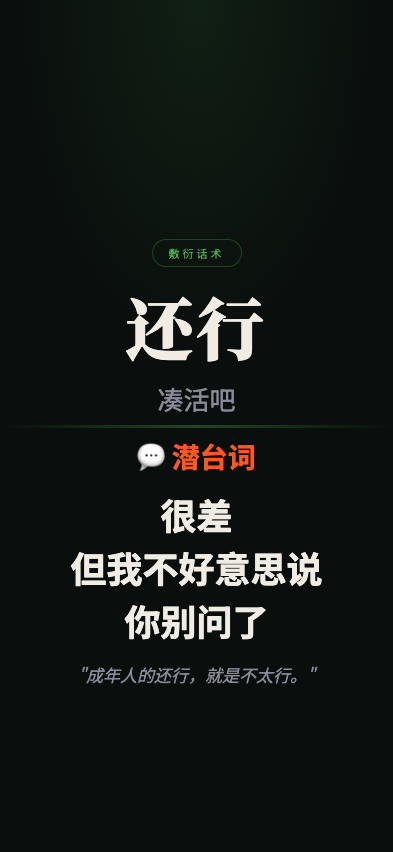
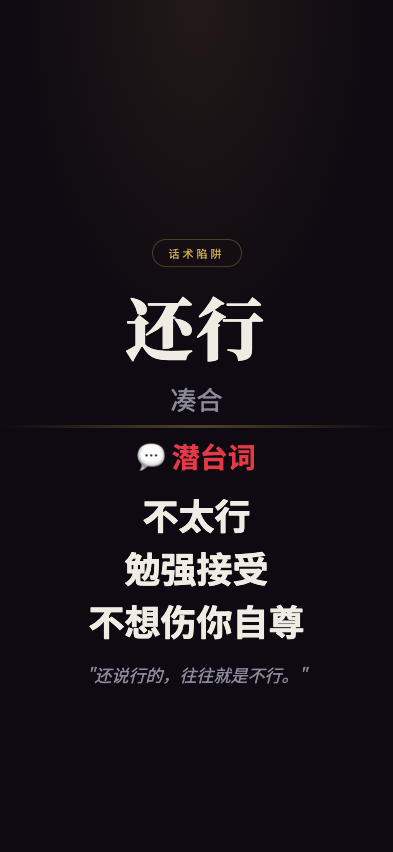
feat: 职场生存法则 screenshot - haixing

diff --git a/wuliao-tools/tools/biz-speak/scenes/haixing.html b/wuliao-tools/tools/biz-speak/scenes/haixing.html
@@ -7,11 +7,11 @@
 <link href="https://fonts.googleapis.com/css2?family=Noto+Serif+SC:wght@400;700;900&family=Noto+Sans+SC:wght@300;400;700&display=swap" rel="stylesheet">
 <style>
   :root {
-    --bg: #0a0f0d;
+    --bg: #0f0a12;
     --text: #f0ece4;
     --text-dim: #8a8a9a;
-    --gold: #4caf50;
-    --red: #ff5722;
+    --gold: #c9a84c;
+    --red: #e63946;
   }
   * { margin:0; padding:0; box-sizing:border-box; }
   html, body { width:100%; height:100%; overflow:hidden; }
@@ -24,11 +24,11 @@
   }
   body::before {
     content:''; position:absolute; top:0; left:0; right:0; height:45%;
-    background:radial-gradient(ellipse at 50% 0%, rgba(76,175,80,0.1) 0%, transparent 65%);
+    background:radial-gradient(ellipse at 50% 0%, rgba(201,168,76,0.1) 0%, transparent 65%);
     pointer-events:none; z-index:0;
   }
   .top { flex:1; display:flex; flex-direction:column; align-items:center; justify-content:flex-end; padding:4px 28px 8px; position:relative; z-index:1; }
-  .tag { font-size:11px; letter-spacing:3px; color:var(--gold); border:1px solid rgba(76,175,80,0.3); padding:5px 16px; border-radius:50px; margin-bottom:20px; }
+  .tag { font-size:11px; letter-spacing:3px; color:var(--gold); border:1px solid rgba(201,168,76,0.3); padding:5px 16px; border-radius:50px; margin-bottom:20px; }
   .main-title { font-family:'Noto Serif SC'; font-size:68px; font-weight:900; text-align:center; line-height:1.15; letter-spacing:3px; min-width:0; overflow-wrap:break-word; max-width:92%; }
   .sub-title { font-size:26px; color:var(--text-dim); text-align:center; margin-top:14px; }
   .divider { width:100%; height:3px; background:linear-gradient(90deg,transparent,var(--gold),transparent); opacity:0.35; flex-shrink:0; position:relative; z-index:1; }
@@ -41,19 +41,19 @@
 </head>
 <body>
   <div class="top">
-    <div class="tag">敷衍话术</div>
+    <div class="tag">话术陷阱</div>
     <div class="main-title">还行</div>
-    <div class="sub-title">凑活吧</div>
+    <div class="sub-title">凑合</div>
   </div>
   <div class="divider"></div>
   <div class="bottom">
     <div class="truth-label">💬 潜台词</div>
     <div class="truth-lines">
-      <div class="truth-line">很差</div>
-      <div class="truth-line">但我不好意思说</div>
-      <div class="truth-line">你别问了</div>
+      <div class="truth-line">不太行</div>
+      <div class="truth-line">勉强接受</div>
+      <div class="truth-line">不想伤你自尊</div>
     </div>
-    <div class="quote">"成年人的还行，就是不太行。"</div>
+    <div class="quote">"还说行的，往往就是不行。"</div>
   </div>
 </body>
 </html>
